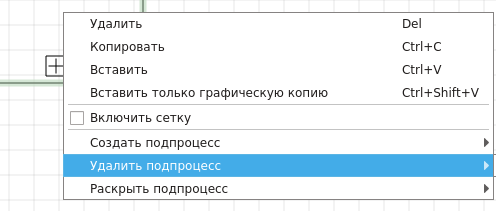
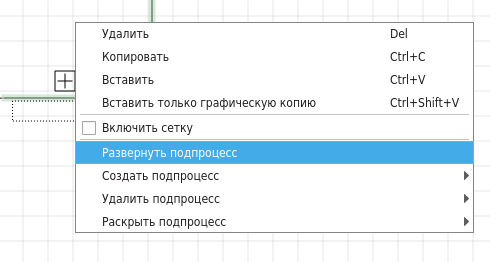
documentation: expanding subprocesses and new types of flows; translations updated

Changed region(s): [[0.0, 0.0, 1.0, 0.9668], [0.1837, 0.1991, 0.3367, 0.2559], [0.7959, 0.1991, 0.8878, 0.2559]]

diff --git a/plugins/bpmn/help/lang.html b/plugins/bpmn/help/lang.html
@@ -55,14 +55,23 @@
 			<h3><a name="activities">Действия (Activities)</a></h3>
 
 			<div>
-			<b>Задание (Task)</b> - обозначает элементарное действие в процессе, исполняемое человеком или системой исполнения бизнес-процессов. Имеет свойство <i>Text</i>, отображаемое в виде надписи внутри элемента.	
+			<b>Задание (Task)</b> - обозначает элементарное действие в процессе, исполняемое человеком или системой исполнения бизнес-процессов. Имеет следующие свойства:
+			<ul>
+				<li><i>Name</i> - отображается в виде надписи внутри элемента.</li>
+				<li><i>Loop Type</i> - указывает на то, повторяется ли действие несколько раз:</li>
+				<ul>
+					<li><i>No Loop</i> - действие выполняется один раз.</li>
+					<li><i>Multiple Instances (Parallel)</i> - одновременно выполняется несколько экземпляров действия.</li>
+					<li><i>Multiple Instances (Sequential)</i> - действие повторяется последовательно несколько раз.</li>
+				</ul>
+			</ul>
 			</div>
 
 			<br/>
 			<center><img src="pics/bpmn-task.png" alt="Задание"></center>
 
 			<div>
-			<b>Подпроцесс (Subprocess)</b> - составное действие внутри процесса, само также являющееся бизнес-процессом. Подробнее о подпроцессах см. <a href="modelling.html#subprocess">Создание подпроцессов</a>. Подпроцесс также имеет свойство <i>Text</i>, отображаемое под элементом.
+			<b>Подпроцесс (Subprocess)</b> - составное действие внутри процесса, само также являющееся бизнес-процессом. Подробнее о подпроцессах см. <a href="modelling.html#subprocess">Создание подпроцессов</a>. Имеет свойства, аналогичные свойствам элемента "Задание" (Task).
 			</div>
 
 			<center><img src="pics/bpmn-subprocess.png" alt="Подпроцесс"></center>
@@ -113,8 +122,10 @@
 				<ul>
 					<li><i>Type</i> - тип события:
 						<ul>
-							<li><i>None (Простое)</i> - завершение процесса без каких-либо дополнительных действий.</li>
-							<li><i>Send Message (Отправка сообщения)</i> - процесс завершается отправкой сообщения.</li>
+							<li><i>None (Простое)</i> - завершение данной ветви управления без каких-либо дополнительных действий.</li>
+							<li><i>Message (Отправка сообщения)</i> - ветвь завершается отправкой сообщения.</li>
+							<li><i>Terminate (Завершение)</i> - немедленное завершение всех активных ветвей управления.</li>
+							<li><i>Signal (Сигнал)</i> - генерация сигнала, который может быть перехвачен в другой части процесса.</li>
 						</ul>
 					<li><i>Text</i> - отображается в виде текста под элементом.</li>
 				</ul>
@@ -130,6 +141,24 @@
 			</div>
 
 			<center><img src="pics/bpmn-sequence-flow.png" alt="Поток управления"></center>
+
+			<div>
+			<b>Поток сообщений (Message Flow)</b> - моделирует посылку сообщений одного участника процесса другому. Имеет свойство <i>Text</i>, отображаемое в виде текста на стрелке.
+			</div>
+			
+			<center><img src="pics/bpmn-message-flow.png" alt="Поток сообщений"></center>
+
+			<div>
+			<b>Поток сигнала (Signal Flow)</b> - прикрепляется к границам элементов-действий (Activities), моделирует обработку сигнала, брошенного в момент выполнения задания, к которому прикреплена данная связь (при этом выполнение задания прерывается). Имеет свойство <i>Text</i>, отображаемое в виде текста на стрелке.
+			</div>
+			
+			<center><img src="pics/bpmn-signal-flow.png" alt="Поток сигнала"></center>
+
+			<div>
+			<b>Поток таймера (Timer Flow)</b> - прикрепляется к границам элементов-действий (Activities), активируется при наступлении определённого времени во время выполнения задания, к которому прикреплена связь (при этом выполнение задания прерывается). Имеет свойство <i>Text</i>, отображаемое в виде текста на стрелке.
+			</div>
+			
+			<center><img src="pics/bpmn-timer-flow.png" alt="Поток таймера"></center>
 
 			<h3><a name="gateways">Развилки (Gateways)</a></h3>
 
@@ -152,17 +181,20 @@
 			<h3><a name="swimlanes">Роли (Swimlanes)</a></h3>
 
 			<div>
-			<b>Пул (Pool)</b> - представляет собой участника процесса. Может содержать внутри себя одну или несколько дорожек. Имеет свойство <i>Text</i>, изображённое в виде вертикально направленного текста в левой части элемента.
+			<b>Пул (Pool)</b> - представляет собой участника процесса. Может содержать внутри себя одну или несколько дорожек. Имеет следующие свойства: 
+			<ul>
+				<li><i>Multiple</i> - указывает, является ли участник единственным, или же таких участников в процессе может быть много.</li>
+				<li><i>Text</i> - изображённое в виде вертикально направленного текста в левой части элемента.</li>
 			</div>
 
 			<br/>
-			<center><img src="pics/bpmn-swimlane.png" alt="Пул"></center>
+			<center><img src="pics/bpmn-pool.png" alt="Пул"></center>
 
 			<div>
 			<b>Дорожка (Lane)</b> - представляет собой роль внутри участника процесса. Содержит в себе элементы потока управления. Имеет свойство <i>Text</i>, изображённое в виде вертикально направленного текста в левой части элемента.
 			</div>
 
-			<center><img src="pics/bpmn-swimlane.png" alt="Дорожка"></center>
+			<center><img src="pics/bpmn-lane.png" alt="Дорожка"></center>
 
 		</div>
 		<!-- end #content -->

diff --git a/plugins/rulesChecker/rulesChecker_ru.ts b/plugins/rulesChecker/rulesChecker_ru.ts
@@ -29,6 +29,16 @@
         <translation>Вернуться в более общий процесс</translation>
     </message>
     <message>
+        <location filename="bpmnCustomizer.cpp" line="55"/>
+        <source>Expand subprocess</source>
+        <translation>Развернуть подпроцесс</translation>
+    </message>
+    <message>
+        <location filename="bpmnCustomizer.cpp" line="60"/>
+        <source>Collapse subprocess</source>
+        <translation>Свернуть подпроцесс</translation>
+    </message>
+    <message>
         <location filename="rulesBPMNPlugin.cpp" line="38"/>
         <source>Diagram Validation</source>
         <translation>Проверить диаграммы</translation>
@@ -42,42 +52,42 @@
 <context>
     <name>qReal::rulesChecker::RulesChecker</name>
     <message>
-        <location filename="rulesChecker.cpp" line="127"/>
+        <location filename="rulesChecker.cpp" line="128"/>
         <source>All diagrams compiled without errors</source>
         <translation>Все диаграммы корректны</translation>
     </message>
     <message>
-        <location filename="rulesChecker.cpp" line="140"/>
+        <location filename="rulesChecker.cpp" line="141"/>
         <source>Current diagram compiled without errors</source>
         <translation>Текущая диаграмма корректна</translation>
     </message>
     <message>
-        <location filename="rulesChecker.cpp" line="150"/>
+        <location filename="rulesChecker.cpp" line="151"/>
         <source>There are links to start node</source>
         <translation>Входящий поток управления к начальному событию</translation>
     </message>
     <message>
-        <location filename="rulesChecker.cpp" line="154"/>
+        <location filename="rulesChecker.cpp" line="155"/>
         <source>There are links from End-event</source>
         <translation>Исходящий поток управления из завершающего события</translation>
     </message>
     <message>
-        <location filename="rulesChecker.cpp" line="158"/>
+        <location filename="rulesChecker.cpp" line="159"/>
         <source>There is no start-node in path</source>
         <translation>В потоке управления нет начального события</translation>
     </message>
     <message>
-        <location filename="rulesChecker.cpp" line="162"/>
+        <location filename="rulesChecker.cpp" line="163"/>
         <source>There is no end-node in path</source>
         <translation>В потоке управления нет завершающего события</translation>
     </message>
     <message>
-        <location filename="rulesChecker.cpp" line="166"/>
+        <location filename="rulesChecker.cpp" line="167"/>
         <source>Some links are incorrect</source>
         <translation>Поток управления без начала или конца</translation>
     </message>
     <message>
-        <location filename="rulesChecker.cpp" line="170"/>
+        <location filename="rulesChecker.cpp" line="171"/>
         <source>There are problems</source>
         <translation>Неизвестная ошибка</translation>
     </message>

diff --git a/plugins/bpmn/help/modelling.html b/plugins/bpmn/help/modelling.html
@@ -168,14 +168,25 @@
 			<center><img src="pics/subprocess-create.png" alt="Создать подпроцесс"></center>
 
 			<div>
-			После того как подпроцесс связан с диаграммой, в меню появляются дополнительные пункты: "Удалить подпроцесс" и "Раскрыть подпроцесс":
+			После того как подпроцесс связан с диаграммой, в меню появляются дополнительные пункты: "Развернуть подпроцесс", "Удалить подпроцесс" и "Раскрыть подпроцесс":
 			</div>
 
 			<br/>
 			<center><img src="pics/subprocess-edit.png" alt="Редактировать подпроцесс"></center>
 
 			<div>
-			При выборе первого из них удаляется только связь элемента с диаграммой, но не диаграмма. Второй из них позволяет переключиться на редактирование диаграммы подпроцесса. Это также можно сделать с помощью двойного щелчка на элементе. 
+			При выборе пункта "Удалить подпроцесс" удаляется только связь элемента с диаграммой, но не диаграмма. 
+			<br>
+			Пункт "Раскрыть подпроцесс" позволяет переключиться на редактирование диаграммы подпроцесса. Это также можно сделать с помощью двойного щелчка на элементе. 
+			<br>
+			При выборе пункта "Развернуть подпроцесс" элемент увеличится в размерах, при этом диаграмма подпроцесса будет отображаться внутри него. Окружающие элементы при этом сдвинутся, исключая перекрытие с данным: 
+			</div>
+
+			<br/>
+			<center><img src="pics/subprocess-expanded.png" alt="Развёрнутый подпроцесс"></center>
+
+			<div>
+			Развёрнутый подпроцесс можно свернуть путём выбора пункта "Свернуть подпроцесс" в его контекстном меню.
 			</div>
 
 		</div>
